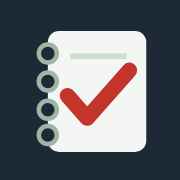
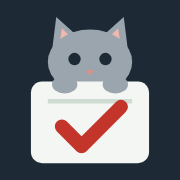
アイコンを「ネコとノート」に変更し、ネコの「メモ」を4コマの登場人物に追加
- favicon・ホーム画面用アイコン・ブログ名の横のマークを差し替え（レ点を描く動きは維持）
- comic.mjs: マスコットのネコ（neko）を追加。座った小さな体、表情は人と共通、小道具なし
- 執筆ルール: 語尾「にゃ」のツッコミ役、2回に1回くらい登場。女性キャラクターの条件には数えない

Claude-Session: https://claude.ai/code/session_01UVw7SaXPPCqcKQUQFFz3Ec

diff --git a/static/style.css b/static/style.css
@@ -58,7 +58,7 @@ a:hover { color: var(--red); }
 .brand-mark-tick, .tick path {
   fill: none; stroke: var(--red); stroke-width: 4.5; stroke-linecap: round; stroke-linejoin: round;
 }
-.brand-mark-tick { stroke-width: 5.5; stroke-dasharray: 36; stroke-dashoffset: 36; animation: draw .7s .2s cubic-bezier(.6,.1,.3,1) forwards; }
+.brand-mark-tick { stroke-width: 5; stroke-dasharray: 32; stroke-dashoffset: 32; animation: draw .7s .2s cubic-bezier(.6,.1,.3,1) forwards; }
 @keyframes draw { to { stroke-dashoffset: 0; } }
 .brand-tagline {
   margin: .9rem 0 0; font-size: .9rem; color: var(--ink-soft);

diff --git a/automation/style.md b/automation/style.md
@@ -50,10 +50,12 @@
 - moriya：守屋さん。女性の情報セキュリティ担当。しっかり者で具体策を出す
 - it：ITくん。男性の情報システム部員。素直で、うっかりミスをしがち
 - bucho：部長。男性の業務部門の部長。悪気はないが、統制を形式的に考えがち
+- neko：メモ。レ点ノートのマスコットのネコ（ブログのアイコンのネコ）。ノートに住んでいて、人の言葉を話す。台詞は短く、語尾は「にゃ」。ツッコミ役や、要点を一言で言う役。小道具は持てない（prop は null）
 
 ## ルール
 - 4コマで「起・承・転・結」。4コマ目で記事の要点が一言でわかるようにする
-- 各コマの登場人物は1〜2人。女性（reten か moriya）を必ず1人以上登場させる。情報セキュリティの記事では moriya を積極的に使う
+- 各コマの登場人物は1〜2人。女性（reten か moriya）を必ず1人以上登場させる（neko は数えない）。情報セキュリティの記事では moriya を積極的に使う
+- neko（メモ）は2回に1回くらいの割合で、4コマのうち1〜2コマに登場させる
 - position は left か right。同じ人物はなるべく同じ側に置く
 - 2人とも話すコマでは、先に話す人を characters の先に書く。台詞は1行10字・2行まで
 - 1人だけ話すコマの台詞は1行13字・3行まで。読みやすい位置に \n で改行を入れる

diff --git a/README.md b/README.md
@@ -66,7 +66,7 @@ description: 検索結果に出る120字程度の要約
 
 記事と同じ名前の `posts/YYYY-MM-DD-slug.comic.json`（台本）があると、記事の導入文のあとに4コマ漫画が表示されます。自動生成では記事と一緒に台本も作られ、プルリクエストに台詞の一覧が載ります。
 
-- 登場人物：レ点さん（reten・内部監査人）、守屋さん（moriya・情報セキュリティ担当）、ITくん（it）、部長（bucho）。毎回、女性（レ点さんか守屋さん）が必ず1人以上登場します
+- 登場人物：レ点さん（reten・内部監査人）、守屋さん（moriya・情報セキュリティ担当）、ITくん（it）、部長（bucho）、マスコットのネコ「メモ」（neko）。毎回、女性（レ点さんか守屋さん）が必ず1人以上登場します
 - 台詞を直すときは `.comic.json` の `says` を編集（`\n` で改行）
 - 絵の描き方は `scripts/comic.mjs`、台本のルールは `automation/style.md` の後半
 
